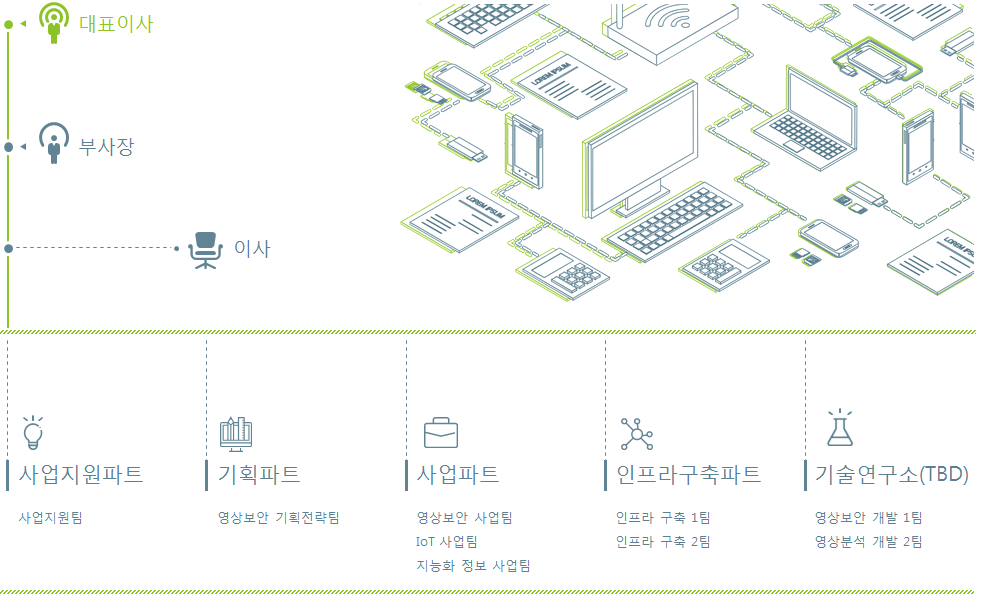
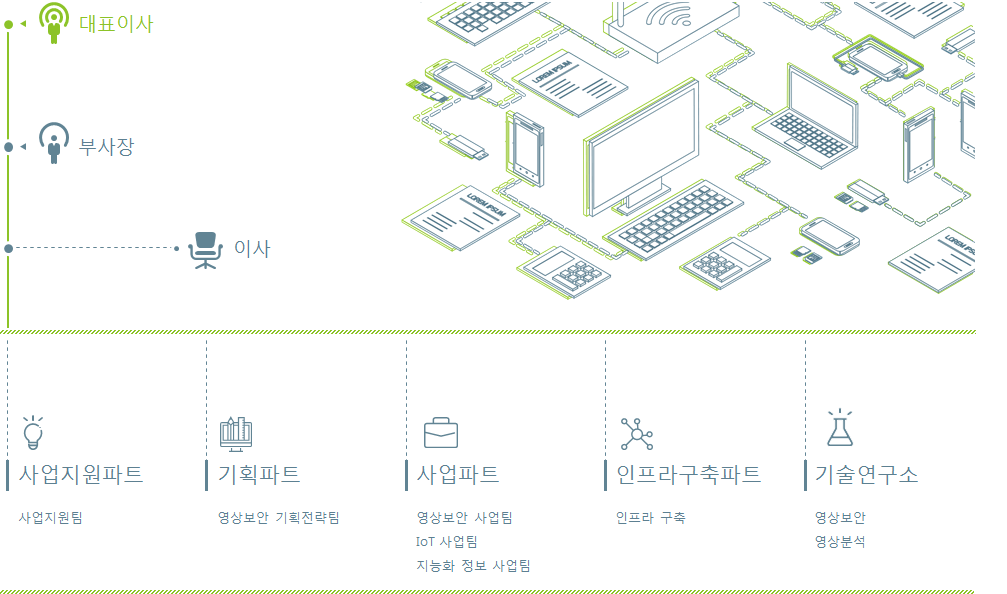
인포 완성
인포 페이지 완성 및 ci 파일등록하여 인포 및 푸터에 삽입

diff --git a/static/css/accelerator/default.css b/static/css/accelerator/default.css
@@ -105,6 +105,11 @@ header li.active
 	padding-bottom : 15px
 }
 
+.blue
+{
+	color : #6610f2;
+}
+
 .green
 {
 	color : #8CC328;
@@ -133,4 +138,10 @@ header li.active
 .p-title
 {
 	font-size : 35px;
+}
+
+footer img
+{
+	height: -webkit-fill-available;
+    padding-bottom: 6px;
 }

diff --git a/static/css/accelerator/info.css b/static/css/accelerator/info.css
@@ -43,3 +43,8 @@ span
 	width : 100%;
 	margin-bottom : 100px;
 }
+
+.ci-img
+{
+	margin : 15px 0 35px 0;
+}
